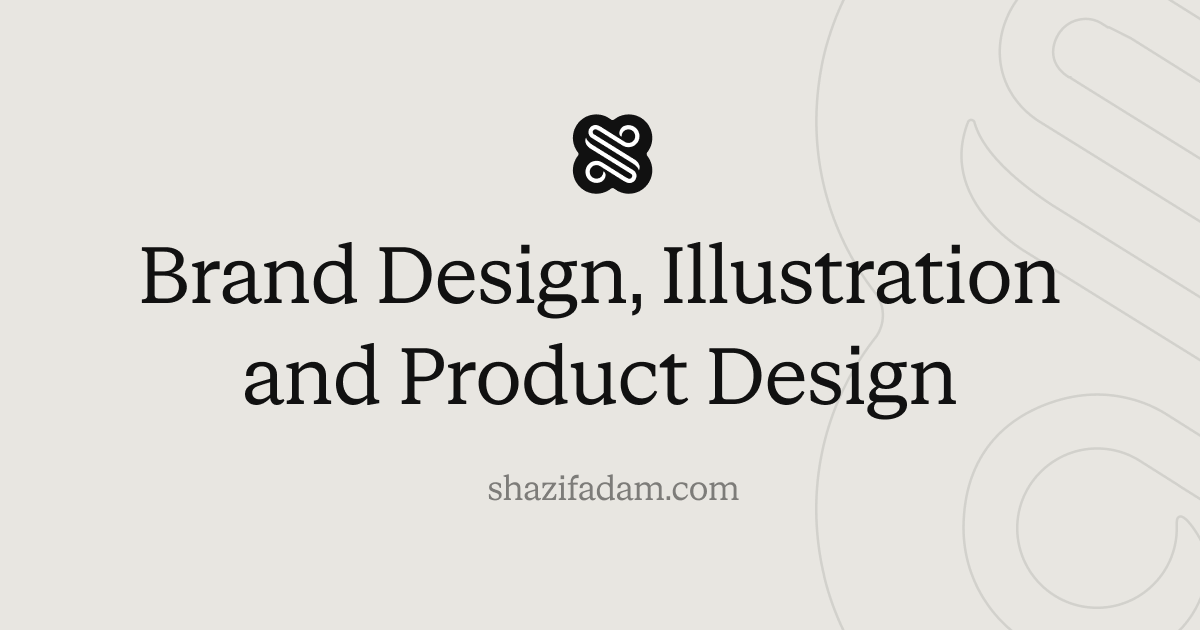
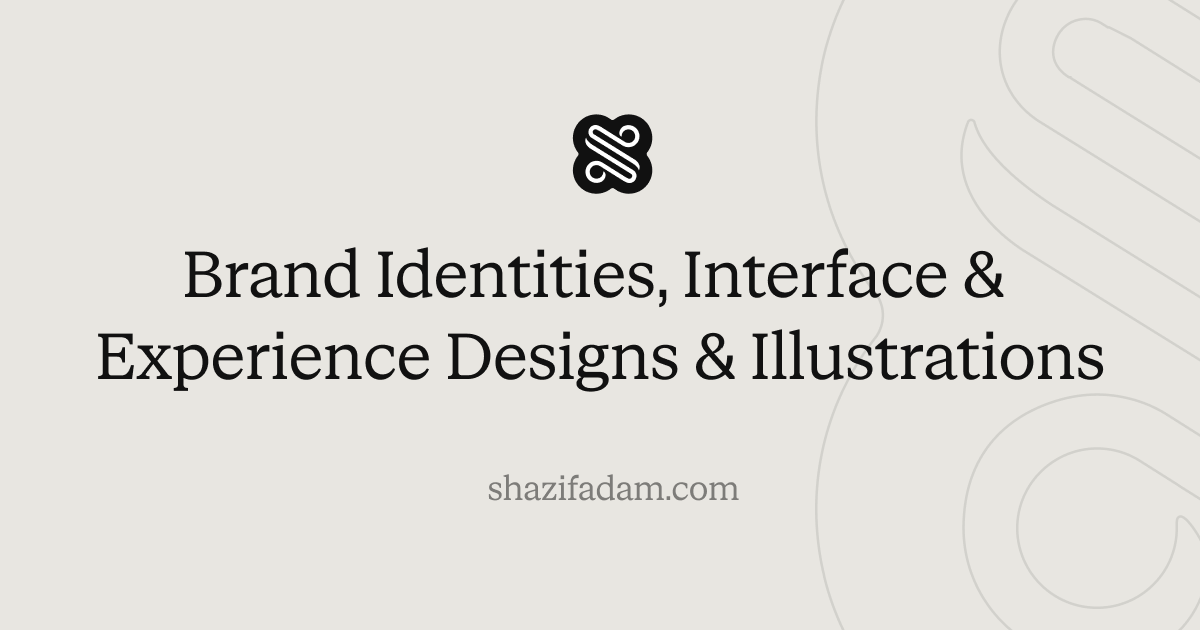
feat: update home hero copy, title, and OG image
Rephrase the hero intro and the home page title (browser/SEO, Open Graph,
and OG image alt) to the multidisciplinary-designer positioning, and
refresh the main OG image (public/og/website.png).

Changed region(s): [[0.0617, 0.5127, 0.925, 0.6635], [0.1233, 0.3921, 0.8942, 0.5127]]

diff --git a/components/home/Hero.tsx b/components/home/Hero.tsx
@@ -13,16 +13,16 @@ export function Hero() {
         <div className="flex w-full max-w-[834px] flex-col gap-4">
           <HeroReveal delay={REVEAL_INTRO}>
             <p className="text-h3 text-brand-black">
-              Hi, I&apos;m{" "}
+              I&apos;m{" "}
               <Link
                 href="/about"
                 className="text-brand-accent-orange underline decoration-brand-accent-orange underline-offset-4"
               >
                 Shazif
               </Link>
-              {", "}a designer with over 10 years of experience in brand, web,
-              and product design. I&apos;ve worked across healthcare,
-              international development, education, and tech industries.
+              {", "}a multidisciplinary designer with over ten years of
+              experience. Specialized in crafting Brand Identities, Interface &
+              Experience Designs and Illustrations
             </p>
           </HeroReveal>
 

diff --git a/app/layout.tsx b/app/layout.tsx
@@ -12,13 +12,13 @@ import { MotionProvider } from "@/components/motion/MotionProvider";
 export const metadata: Metadata = {
   metadataBase: new URL("https://shazifadam.com"),
   title: {
-    default: "Shazif Adam — Designer who builds. Illustrates the rest.",
+    default: "Shazif Adam — Multidisciplinary Designer specialized in crafting Brand Identities, Interface Designs & Illustrations",
     template: "%s — Shazif Adam",
   },
   description:
     "Product and brand designer based in Malé, Maldives. Designing and building for international clients.",
   openGraph: {
-    title: "Shazif Adam — Designer who builds. Illustrates the rest.",
+    title: "Shazif Adam — Multidisciplinary Designer specialized in crafting Brand Identities, Interface Designs & Illustrations",
     description:
       "Product and brand designer based in Malé, Maldives. Designing and building for international clients.",
     url: "https://shazifadam.com",
@@ -29,7 +29,7 @@ export const metadata: Metadata = {
         url: "/og/website.png",
         width: 1200,
         height: 630,
-        alt: "Shazif Adam — Designer who builds. Illustrates the rest.",
+        alt: "Shazif Adam — Multidisciplinary Designer specialized in crafting Brand Identities, Interface Designs & Illustrations",
       },
     ],
   },